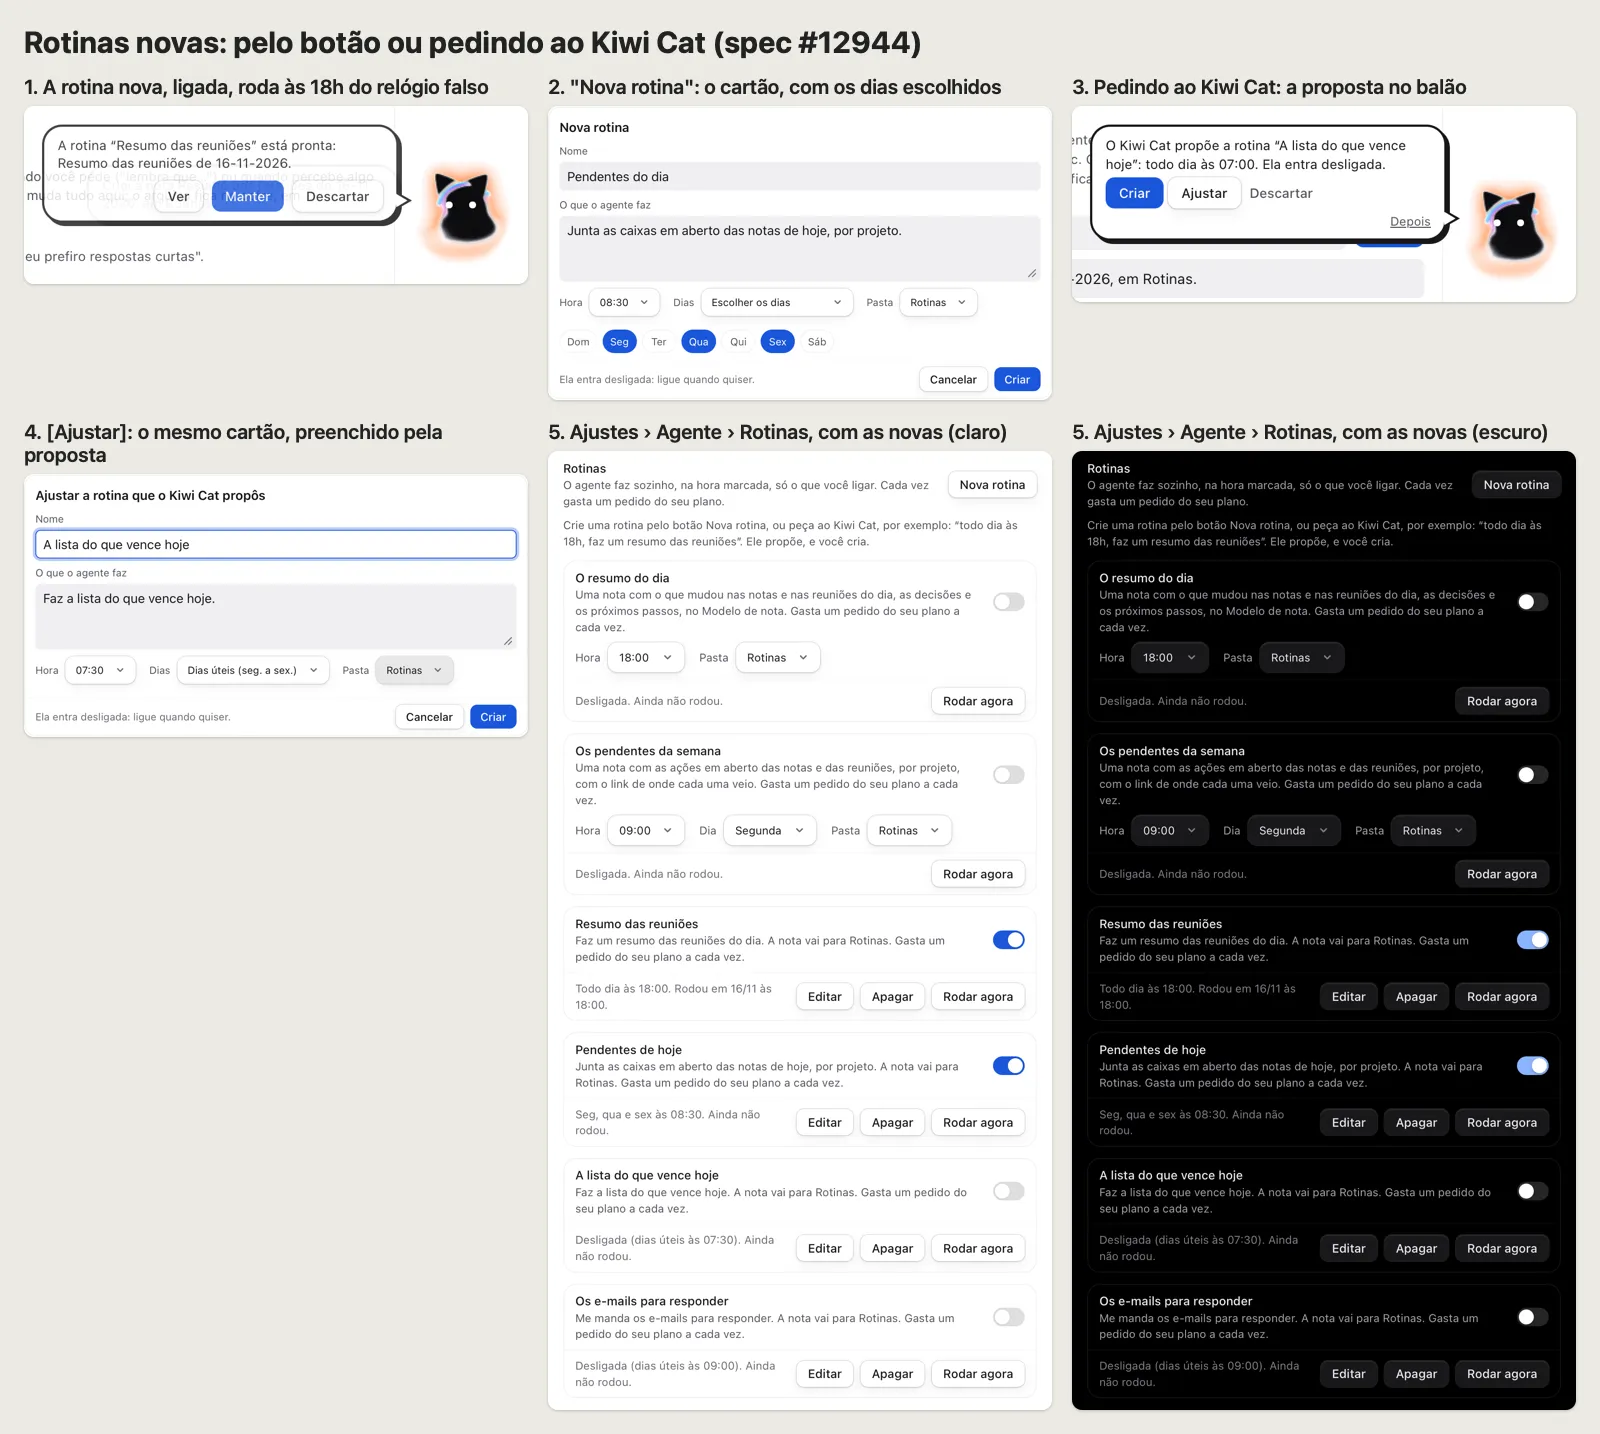
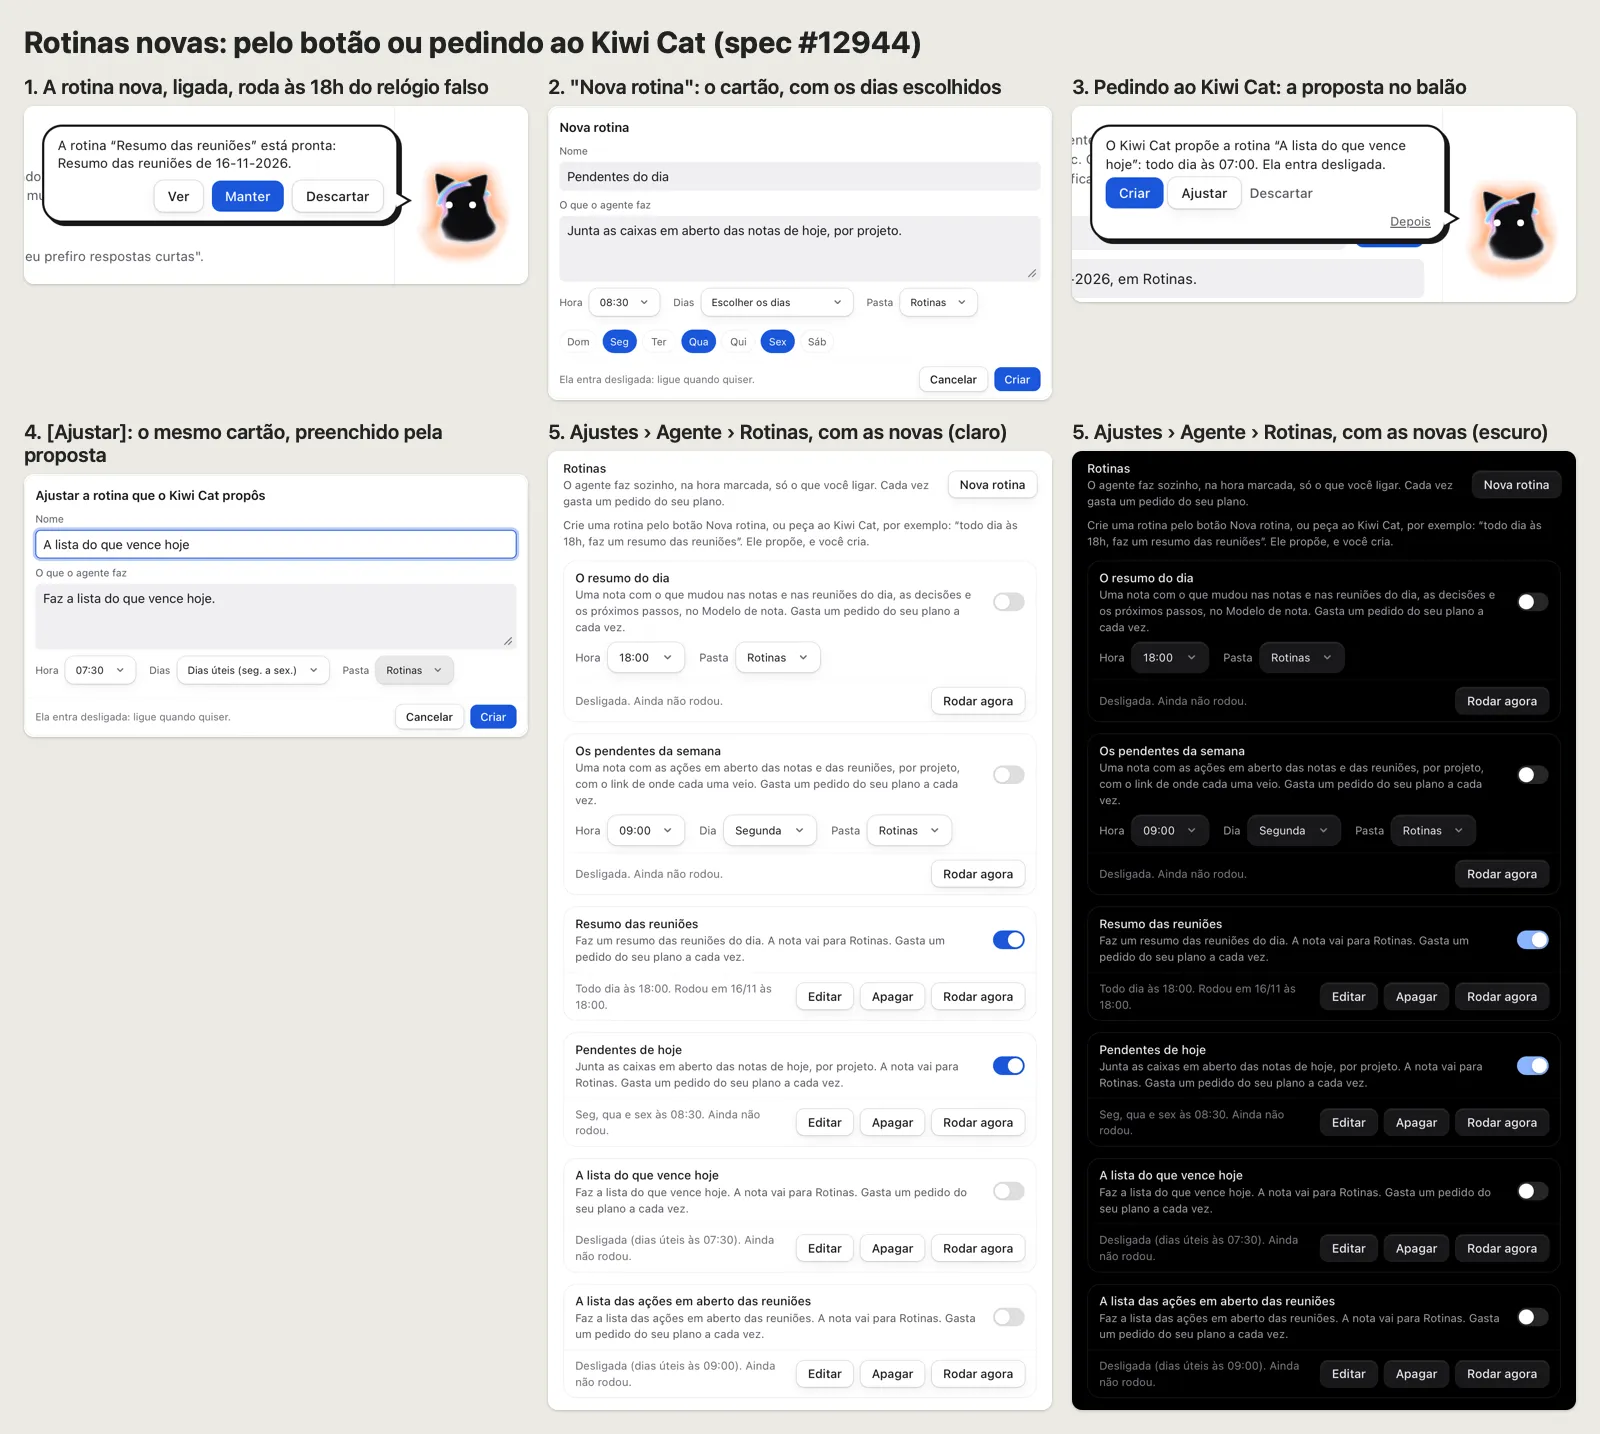
Rotinas novas (T13010) rodada 2: o print espera o balão parado, e o exemplo sem e-mail (revisão do lead, #13102)

Changed region(s): [[0.6875, 0.8898, 0.8438, 0.9512], [0.3438, 0.8898, 0.5, 0.9512], [0.0312, 0.1227, 0.2188, 0.1841]]

diff --git a/app/scripts/routines-new-check.ts b/app/scripts/routines-new-check.ts
@@ -80,9 +80,30 @@ async function shot(p: Page, sel: string, file: string, caption: string) {
   await p.locator(sel).first().screenshot({ path: join(out, file) });
   shots.push({ file, caption });
 }
-/** O recorte do canto do gato: o balão e o gato juntos. */
+/**
+ * O balão parado: nenhum saindo (a troca entre os balões acabou), o de `sel` inteiro na tela, e assim por 600 ms. Sem
+ * isso, o print pega a passagem, com o texto de trás atravessando o balão (revisão do lead, #13102).
+ */
+async function settled(p: Page, sel: string) {
+  const still = () =>
+    p.evaluate((s) => {
+      const el = document.querySelector(s);
+      const slot = el?.closest(".kn-bubble-slot");
+      const exiting = document.querySelector('.kn-bubble-slot[data-phase="exit"]');
+      return !!slot && !exiting && slot.getAttribute("data-phase") !== "exit" && Number(getComputedStyle(slot).opacity) > 0.99;
+    }, sel);
+  for (let n = 0, since = 0; ; n++) {
+    assert.ok(n < 200, `${sel} não parou`);
+    if (await still()) {
+      if (since && Date.now() - since >= 600) return;
+      since ||= Date.now();
+    } else since = 0;
+    await Bun.sleep(50);
+  }
+}
+/** O recorte do canto do gato: o balão e o gato juntos, com o balão parado. */
 async function cornerShot(p: Page, sel: string, file: string, caption: string) {
-  await Bun.sleep(300);
+  await settled(p, sel);
   const b = await p.locator(sel).first().boundingBox();
   const c = await p.locator(".kn-kiwicat").boundingBox();
   assert.ok(b && c, `${sel} e o gato na tela`);
@@ -187,12 +208,12 @@ try {
   const proposal = (await invoke("agent.proposals")).proposals.find((x: any) => x.kind === "routine")!;
   assert.equal(proposal.status, "applied");
   // [Criar] direto no balão.
-  await invoke("agent.ask", { text: "dias úteis às 9h, me manda os e-mails para responder" });
+  await invoke("agent.ask", { text: "dias úteis às 9h, faz a lista das ações em aberto das reuniões" });
   await p.waitForSelector(".kn-proposal-bubble button:has-text('Criar')", { timeout: 60000 });
   await idle();
   await p.locator(".kn-proposal-bubble button:has-text('Criar')").click();
   await p.waitForFunction(() => document.querySelector(".kn-proposal-bubble .kn-proposal-line")?.textContent?.startsWith("Pronto: a rotina"), undefined, { timeout: 10000 });
-  assert.ok((await custom()).some((r) => r.name === "Os e-mails para responder" && r.on === false));
+  assert.ok((await custom()).some((r) => r.name === "A lista das ações em aberto das reuniões" && r.on === false));
   report.checks.push("asking the agent shows the proposal in the cat's bubble with [Criar] [Ajustar] [Descartar]; [Criar] creates it off; [Ajustar] opens the same card in Settings, filled, and creates it with the changes");
   report.problems.push(...h.report.problems);
   await h.close();
